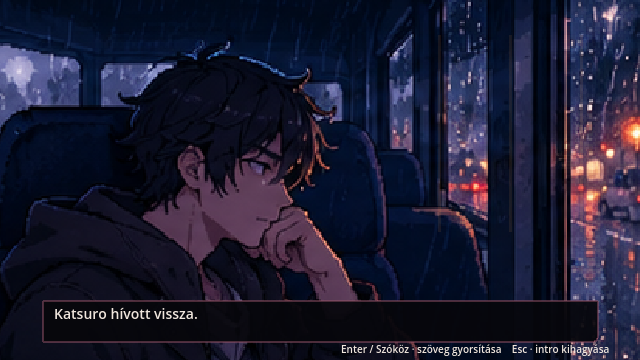
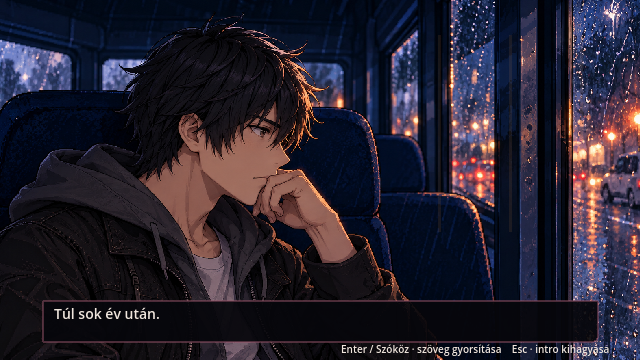
Match opening bus Akira to approved design and memory CG

diff --git a/docs/AKIRA_OPENING_CONTINUITY_REVIEW.md b/docs/AKIRA_OPENING_CONTINUITY_REVIEW.md
@@ -1,0 +1,15 @@
+# Akira nyitó képi folytonosság — 2026-10-04 REVIEW
+
+A tulajdonos észrevétele alapján a monológ első buszos képe eltért az emlékkép Akirájától. A korábbi 640x360 forrás túl durva pixelrajza, eltérő hajtömege és arcaránya miatt a vágás két külön karakter benyomását adta.
+
+Cserélt asset: assets/opening/shot_review_v2/bus_cabin_REVIEW.png. Az új részletes 1672x941 CG a jóváhagyott AKIRA_FINAL_CHARACTER_DESIGN_V1 és a memory_warm_REVIEW képből tartja az arcot, hajformát és rétegzett ruhát. A buszos ülő póz, saját kéz az állnál, hideg esti fény és esős ablak megmarad. A meleg emlékkép változatlan; idővonal, monológ és kontrollátadás változatlan. Nearest szűrés marad, a forrás részletessége nőtt.
+
+Státusz: REVIEW, nem új character design vagy FINAL production jóváhagyás. Provider: built-in image_gen, image edit, transparent_background=false. Forrásképek sorrendben: bus_cabin_REVIEW.png (előző verzió a Git-történetben), cinematic_v2/memory_warm_REVIEW.png, reference/AKIRA_FINAL_CHARACTER_DESIGN_V1.png.
+
+## Pontos prompt
+
+Use case: identity-preserve. Edit image 1, the opening bus monologue shot. Image 2 is the subsequent memory shot and provides the matching face and detailed cinematic rendering. Image 3 is the LOCKED Akira character design authority. Recreate image 1 as a consistent detailed cinematic pixel-art 16:9 game CG. Preserve its seated composition: adult Dr Akira on the left in three-quarter profile facing right toward the rainy bus window, thoughtful tired controlled expression, own hand near mouth/chin, blue upholstered bus seats, cold blue night and orange distant streetlights through wet glass on right. Correct ONLY the visual continuity and rendering detail: he must visibly be the SAME adult man as image 2 and image 3, same narrow mature jaw, dark brown grey eyes with restrained adult size, same black layered tousled hair and fringe silhouette, same charcoal jacket over grey hoodie and pale grey shirt. Match image 2's fine crisp detailed pixel-art/anime CG treatment, edge definition, line quality and body proportions; avoid coarse low-resolution blocks or enlarged youthful eyes. Keep subdued blue bus lighting distinct from warm memory lighting. Natural anatomically coherent hand. Fully opaque landscape 16:9, detailed high-resolution source, no text, UI, borders, labels or other characters. Do not change the memory scene or character design. Do not show reference boards.
+
+## Ellenőrzés
+
+Godot import és tests/opening/cinematic_input_regression.tscn: a buszos képkocka, emlékbe váltás, monológ ütemezés, Space és skip útvonal. Grafikus rögzítés: review/cinematic_v2_bus_katsuro.png. A környezeti certificate-store és tesztkilépési ObjectDB diagnosztika ismert; nem production script-hiba.

diff --git a/docs/PROGRESS.md b/docs/PROGRESS.md
@@ -4,6 +4,8 @@ Hana, Kuroe és Shion korai cameója működik REVIEW atlasszal, névtábla/dial
 
 Frissítve: 2026-10-04. Technikai REVIEW; a LOCKED kreatív döntések változatlanok.
 
+A monológ első buszos Akira-képe részletesebb, a karakterlaphoz és az emlékképhez igazított REVIEW CG-re cserélve. [Képi folytonosság és prompt](AKIRA_OPENING_CONTINUITY_REVIEW.md). A történet és az intró időzítése változatlan.
+
 A belépési pont a scenes/ui/main_menu.tscn. Főmenü → Játék indítása → scenes/opening/opening.tscn: nyitás (66 mp) → kapunál kontroll → Village Street → híd → ház → Miyako köszöntése. A falun belüli útvonal játékosvezérelt.
 
 2026-10-03: főmenü a felhasználó kifejezett kérésére. Játék indítása, Beállítások, Irányítás, Kilépés. Hangerő és teljes képernyő mentése külön beállításfájlba; ez nem játékállás-mentés. Meglévő erdei kapu REVIEW háttér, eső és halk esőhang. Részletek: [MENU_REVIEW](MENU_REVIEW.md).
